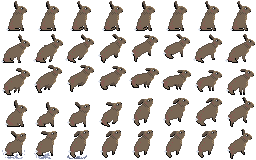
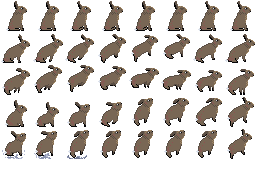
hareupdate

diff --git a/src/hare.c b/src/hare.c
@@ -308,7 +308,7 @@ void hare_init(float pos_x, float pos_y) {
 
     L.emit_dirt_add = sca_random_noise(6, 2);
 
-    L.ro = ro_single_new(camera.gl_main, r_texture_new_file(8, 5, "res/hare.png"));
+    L.ro = ro_single_new(camera.gl_main, r_texture_new_file(8, 6, "res/hare.png"));
 
     u_pose_set_size(&L.ro.rect.pose, 32, 32);
 
